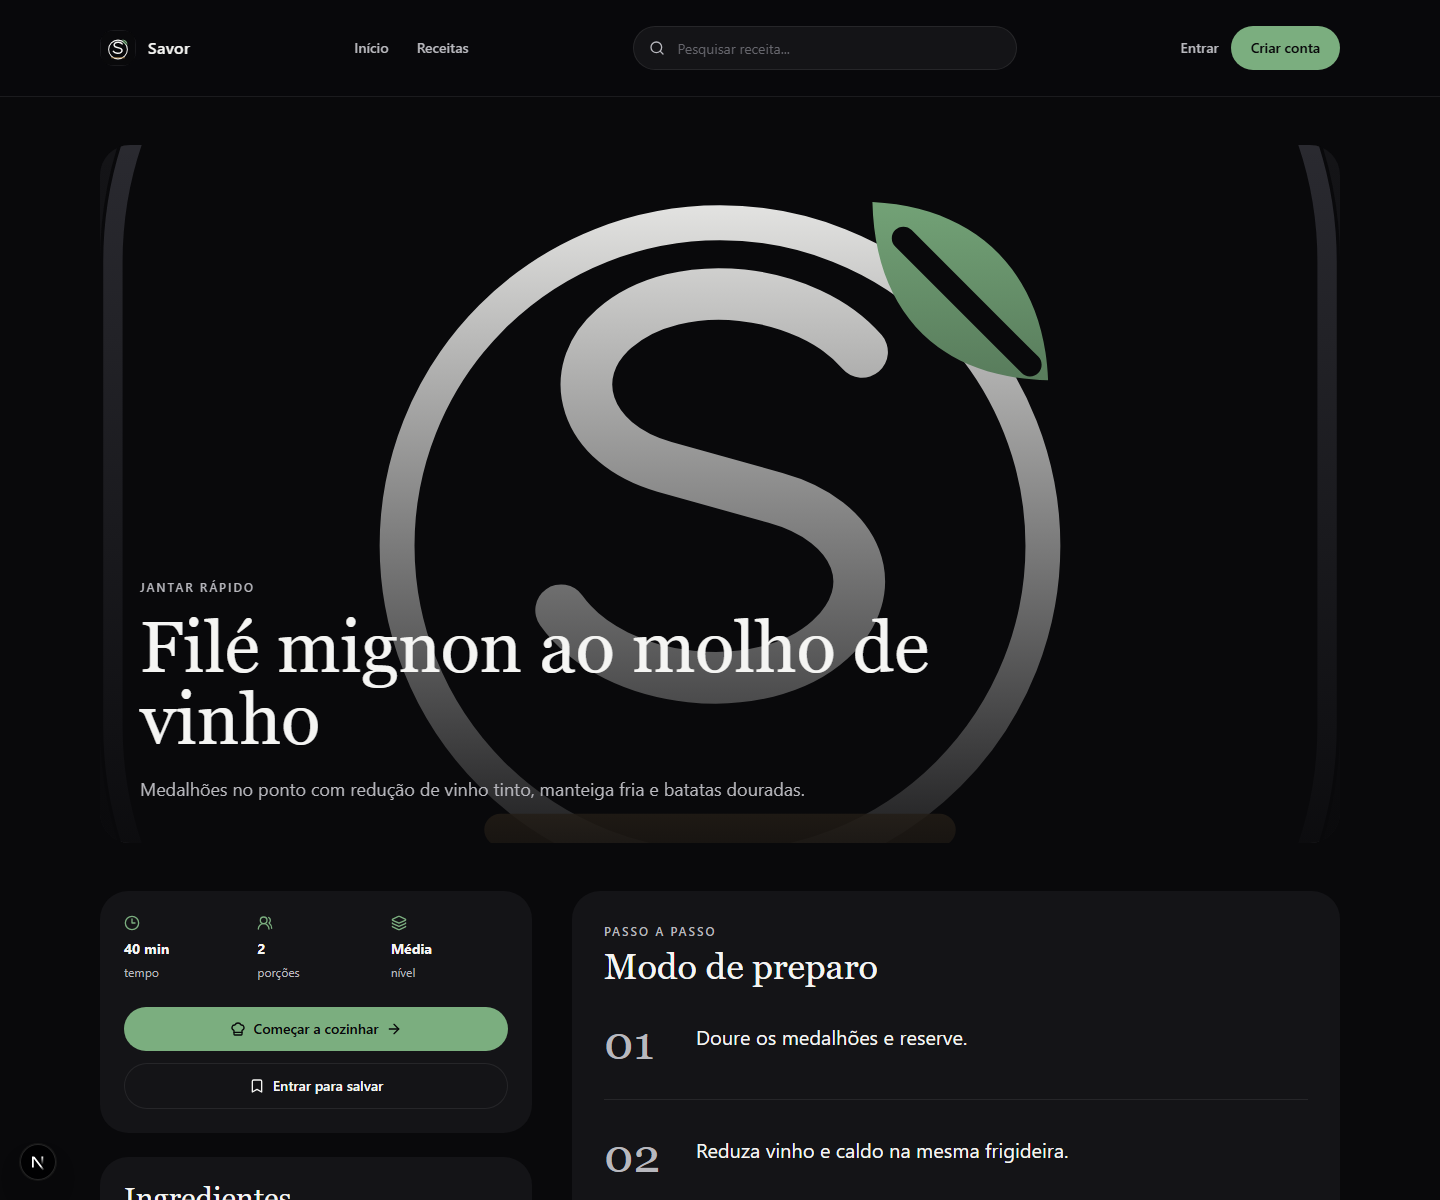
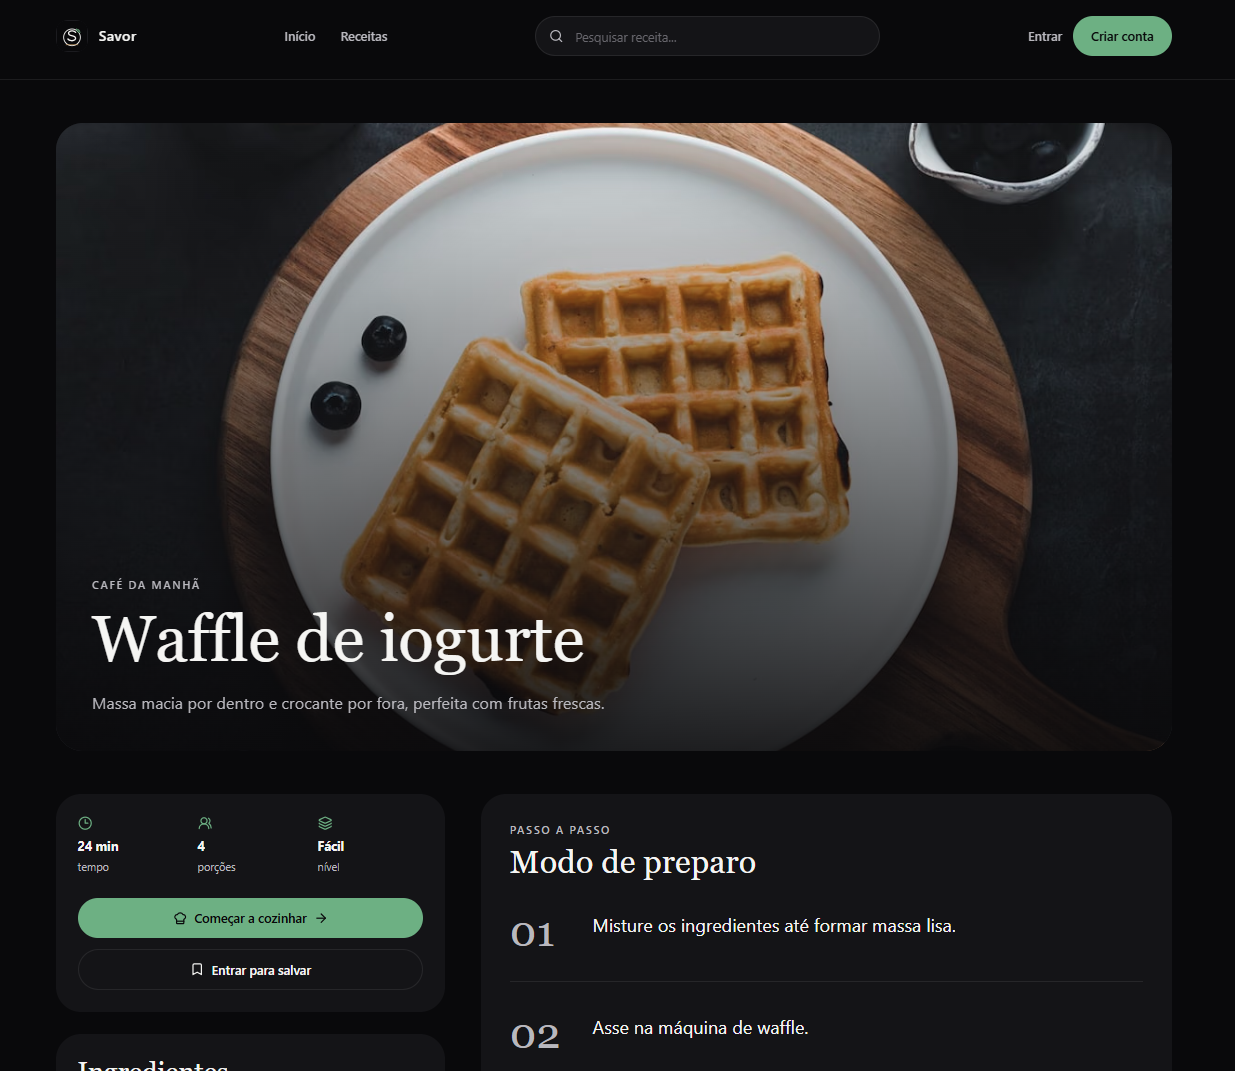
docs: add updated project screenshots

diff --git a/README.md b/README.md
@@ -30,17 +30,31 @@ Também existe um fluxo administrativo protegido por role `ADMIN`, usado para ge
 
 ---
 
-## Screenshots
+## Demonstração
 
-![Home do Savor](docs/screenshots/home.png)
+<p align="center">
+  <a href="https://receitas-delta-eight.vercel.app">
+    <strong>🍳 Acessar aplicação em produção</strong>
+  </a>
+</p>
 
-| Receita | Minha cozinha |
-| --- | --- |
-| ![Página de receita](docs/screenshots/recipe.png) | ![Minha cozinha](docs/screenshots/kitchen.png) |
+### Página da receita
 
-| Painel administrativo | Fluxo rápido |
-| --- | --- |
-| ![Painel administrativo](docs/screenshots/admin.png) | ![Busca, favoritos e modo de preparo](docs/screenshots/flow.png) |
+![Página de detalhes da receita](docs/screenshots/recipe.png)
+
+### Biblioteca de receitas
+
+![Biblioteca de receitas com busca e filtros](docs/screenshots/library.png)
+
+### Painel administrativo
+
+![Dashboard administrativo do Savor](docs/screenshots/admin.png)
+
+### Vídeo demonstrativo
+
+https://github.com/user-attachments/assets/COLE-AQUI-O-LINK-DO-VIDEO
+
+Para o vídeo aparecer com player no README, abra a edição do README no GitHub e arraste o MP4 diretamente para o editor. O GitHub vai gerar automaticamente o link user-attachments; substitua a última linha por ele.
 
 ---
 